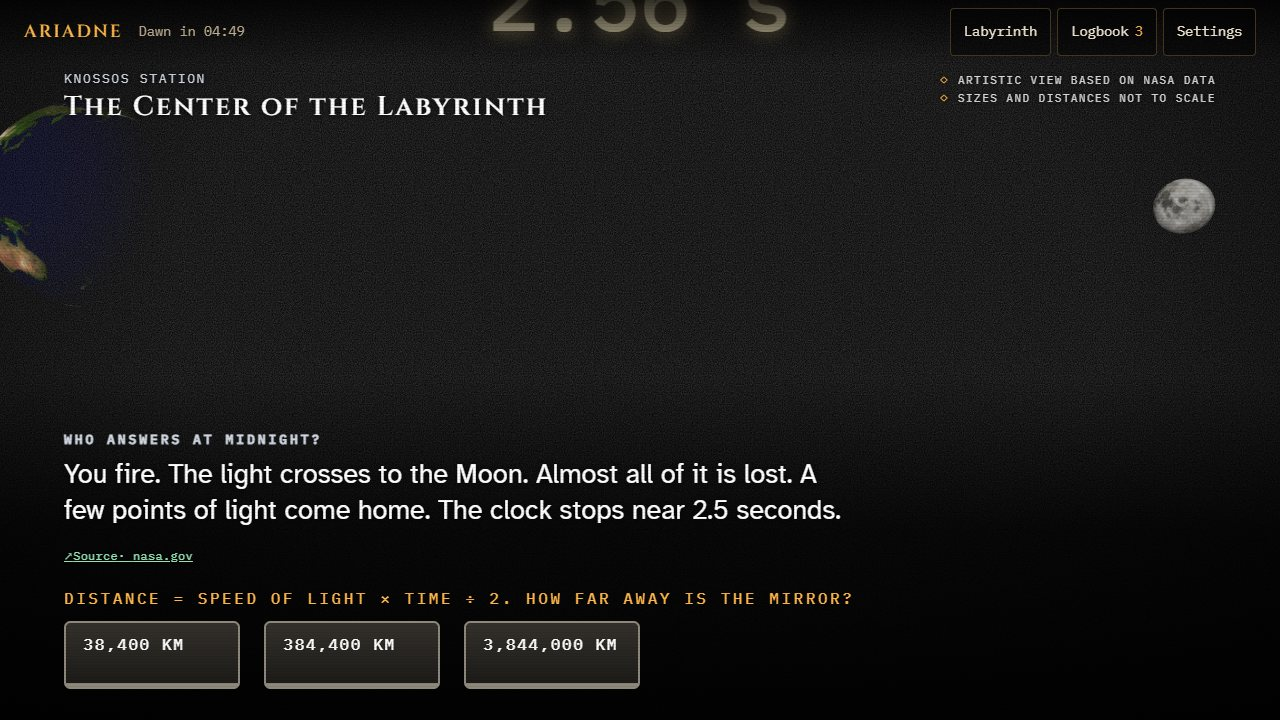
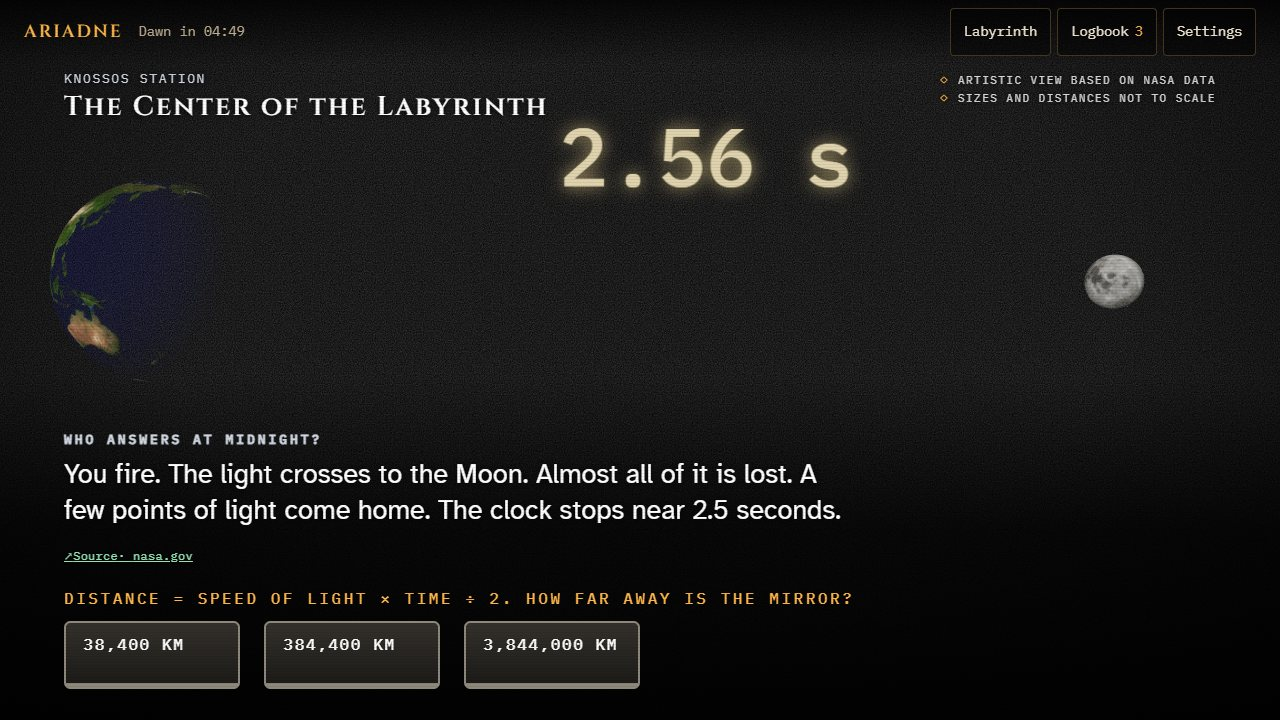
Voices: script and casting ready, blocked on quota; the browser reads aloud meanwhile
- scripts/gen-voices.ts + content/voices.yaml: stock adult voices, cache by
  text hash, ID3 tag "AI-generated voice (ElevenLabs)" written without
  ffmpeg, real people never voiced. Dry run: 54 lines, 4,763 characters
- BLOCKED: the ElevenLabs key has 50 credits left of 10,000 (task T-04b)
- Read aloud (AX-33, B-30): a line without a voice file is read by the
  browser's own speech, on the device, with pitch and pace per speaker.
  The compiler lists the voice files that exist, so nothing missing is
  ever requested (B-D13)
- The pulse and the Daisy Bell hum now come in under the narrator's words

diff --git a/scripts/gen-voices.ts b/scripts/gen-voices.ts
@@ -1,0 +1,116 @@
+/**
+ * Voice files (B-04, 10.5, 15.4, R-08). Development time only: nothing here ships to the browser.
+ *
+ *   npx tsx scripts/gen-voices.ts --dry-run prologue e02-apollo11 finale   # what would be made, and how many characters
+ *   npx tsx scripts/gen-voices.ts prologue e02-apollo11 finale             # make them
+ *   npx tsx scripts/gen-voices.ts --limit 1 e02-apollo11                   # a one-line test
+ *
+ * It reads the compiled content, takes every text that has a voice id (src/content/voice.ts), maps the speaker
+ * to a stock voice (content/voices.yaml), and writes public/assets/vo/vo_<id>_en.mp3.
+ *
+ *  - The key comes from .env (ELEVENLABS_API_KEY) and is never printed. A key that can only do text to speech is enough.
+ *  - A line is redone only when its text or its voice changed (assets-src/vo-cache.json).
+ *  - Speakers that are not in voices.yaml are skipped: real people are never voiced (B-D05).
+ *  - Every file gets an ID3 tag that says it is an AI-generated voice. No ffmpeg needed.
+ *  - If the quota runs out, it stops and keeps what it has; the game shows captions for the rest (FR-34).
+ */
+import { createHash } from 'node:crypto';
+import { existsSync, mkdirSync, readFileSync, writeFileSync } from 'node:fs';
+import { dirname, join } from 'node:path';
+import { fileURLToPath } from 'node:url';
+import { parse } from 'yaml';
+import { voiceLines } from '../src/content/voice.ts';
+import { buildContent } from './build-content.ts';
+
+const ROOT = join(dirname(fileURLToPath(import.meta.url)), '..');
+const OUT = join(ROOT, 'public', 'assets', 'vo');
+const CACHE = join(ROOT, 'assets-src', 'vo-cache.json');
+const LABEL = 'AI-generated voice (ElevenLabs)';
+
+type Voices = { model: string; format: string; settings: Record<string, number>; voices: Record<string, { name: string; id: string }> };
+
+const args = process.argv.slice(2);
+const dry = args.includes('--dry-run');
+const limitAt = args.indexOf('--limit');
+const limit = limitAt >= 0 ? Number(args[limitAt + 1]) : Infinity;
+const only = args.filter((a, i) => !a.startsWith('--') && i !== limitAt + 1);
+
+function key(): string {
+  const file = join(ROOT, '.env');
+  const found = existsSync(file) ? /^ELEVENLABS_API_KEY\s*=\s*["']?([^"'\s#]+)/m.exec(readFileSync(file, 'utf8'))?.[1] : undefined;
+  if (!found) throw new Error('ELEVENLABS_API_KEY is missing. Copy .env.example to .env and ask the team for the key.');
+  return found;
+}
+
+/** A minimal ID3v2.3 tag: title, artist and a comment that declares the voice as AI-generated (R-08). */
+function id3(title: string, voice: string): Buffer {
+  const frame = (id: string, body: Buffer) => {
+    const head = Buffer.alloc(10);
+    head.write(id, 0, 'latin1');
+    head.writeUInt32BE(body.length, 4);
+    return Buffer.concat([head, body]);
+  };
+  const text = (s: string) => Buffer.concat([Buffer.from([0]), Buffer.from(s, 'latin1')]);
+  const comment = Buffer.concat([Buffer.from([0]), Buffer.from('eng', 'latin1'), Buffer.from([0]), Buffer.from(LABEL, 'latin1')]);
+  const frames = Buffer.concat([frame('TIT2', text(title)), frame('TPE1', text(`${LABEL}, stock voice "${voice}"`)), frame('COMM', comment)]);
+  const head = Buffer.alloc(10);
+  head.write('ID3', 0, 'latin1');
+  head[3] = 3;
+  // Size as a 28-bit "synchsafe" integer.
+  for (let i = 0; i < 4; i++) head[6 + i] = (frames.length >> (7 * (3 - i))) & 0x7f;
+  return Buffer.concat([head, frames]);
+}
+
+async function main() {
+  const cfg = parse(readFileSync(join(ROOT, 'content', 'voices.yaml'), 'utf8')) as Voices;
+  const content = buildContent({ quiet: true });
+  const cache: Record<string, string> = existsSync(CACHE) ? JSON.parse(readFileSync(CACHE, 'utf8')) : {};
+  mkdirSync(OUT, { recursive: true });
+
+  const all = voiceLines(content, only.length ? only : undefined);
+  const skipped = new Set(all.filter((l) => !cfg.voices[l.who]).map((l) => l.who));
+  const lines = all.filter((l) => cfg.voices[l.who]);
+  const hash = (l: (typeof lines)[number]) => createHash('sha1').update(`${cfg.model}|${cfg.voices[l.who].id}|${JSON.stringify(cfg.settings)}|${l.text}`).digest('hex');
+  const todo = lines.filter((l) => cache[l.id] !== hash(l) || !existsSync(join(OUT, `vo_${l.id}_en.mp3`))).slice(0, limit);
+
+  const chars = todo.reduce((n, l) => n + l.text.length, 0);
+  console.log(`${lines.length} spoken lines in ${only.join(', ') || 'the whole game'}; ${lines.length - todo.length} already made; ${todo.length} to make, ${chars} characters.`);
+  if (skipped.size) console.log(`not voiced (no entry in voices.yaml, on purpose for real people): ${[...skipped].join(', ')}`);
+  const byVoice: Record<string, number> = {};
+  for (const l of todo) byVoice[l.who] = (byVoice[l.who] ?? 0) + l.text.length;
+  for (const [who, n] of Object.entries(byVoice)) console.log(`  ${who.padEnd(9)} ${cfg.voices[who].name.padEnd(8)} ${n} characters`);
+  if (dry) {
+    for (const l of todo) console.log(`  ${l.id}  [${l.who}]  ${l.text.slice(0, 70)}${l.text.length > 70 ? '…' : ''}`);
+    return;
+  }
+  if (!todo.length) return;
+
+  const apiKey = key();
+  let made = 0;
+  for (const l of todo) {
+    const v = cfg.voices[l.who];
+    const res = await fetch(`https://api.elevenlabs.io/v1/text-to-speech/${v.id}?output_format=${cfg.format}`, {
+      method: 'POST',
+      headers: { 'xi-api-key': apiKey, 'content-type': 'application/json', accept: 'audio/mpeg' },
+      body: JSON.stringify({ text: l.text, model_id: cfg.model, voice_settings: cfg.settings }),
+    });
+    if (!res.ok) {
+      const why = (await res.text()).slice(0, 300);
+      console.error(`\nstopped at ${l.id}: HTTP ${res.status} ${why}`);
+      break;
+    }
+    const audio = Buffer.from(await res.arrayBuffer());
+    writeFileSync(join(OUT, `vo_${l.id}_en.mp3`), Buffer.concat([id3(l.id, v.name), audio]));
+    cache[l.id] = hash(l);
+    writeFileSync(CACHE, `${JSON.stringify(cache, null, 1)}\n`);
+    made++;
+    console.log(`  ✓ ${l.id} (${v.name}, ${(audio.length / 1024).toFixed(0)} kB)`);
+  }
+  console.log(`\n${made} of ${todo.length} files written to public/assets/vo/.`);
+  if (made < todo.length) process.exit(1);
+}
+
+main().catch((e) => {
+  console.error(e instanceof Error ? e.message : e);
+  process.exit(1);
+});

diff --git a/src/audio/bus.ts b/src/audio/bus.ts
@@ -9,7 +9,9 @@
  * On the lunar surface there is silence. Sound only exists where there was air or a radio:
  * inside the cabin, on the loop with Mission Control, inside Knossos Station.
  */
+import { content } from '../content';
 import { asset } from '../content/assets';
+import { spoken } from '../content/voice';
 
 export type Channel = 'voice' | 'music' | 'sfx' | 'ambience';
 export type AudioSettings = { sound: boolean; narration: boolean; mono: boolean };
@@ -19,6 +21,15 @@ export const SFX = ['key', 'confirm', 'wrong', 'alarm', 'quindar', 'contact', 'c
 export type SfxName = (typeof SFX)[number];
 
 const VOLUME: Record<Channel, number> = { voice: 1, music: 0.45, sfx: 0.7, ambience: 0.5 };
+
+const VOICED = new Set(content.voiced ?? []);
+/** How the browser's own speech tells speakers apart when there is no voice file: pitch and pace. */
+const READ_ALOUD: Record<string, { pitch: number; rate: number }> = {
+  ariadne: { pitch: 1.05, rate: 0.95 },
+  machine: { pitch: 0.6, rate: 0.88 },
+  note: { pitch: 1.2, rate: 0.95 },
+  narrator: { pitch: 0.85, rate: 0.92 },
+};
 
 class AudioBus {
   private ctx: AudioContext | null = null;
@@ -263,19 +274,38 @@ class AudioBus {
   }
 
   /**
-   * Speaks a line by its id: public/assets/vo/vo_<id>_en.mp3. If the file is missing, or narration is off,
-   * nothing happens and nothing waits (FR-34).
+   * Speaks a text (FR-34, AX-33).
+   *  - If the line has a voice file (public/assets/vo/vo_<id>_en.mp3), that file plays.
+   *  - If not, the browser's own speech reads it aloud, on the device, with no download.
+   * Nothing waits for it and nothing breaks without it: the caption is already on screen.
+   * A real person's words are read in the neutral narrator voice; no voice ever pretends to be them.
    */
-  speak(id: string | undefined) {
+  speak(id: string | undefined, text?: string, who = 'narrator') {
     this.stopVoice();
-    if (!id || !this.unlocked || !this.settings.sound || !this.settings.narration) return;
-    const el = new Audio(asset(`assets/vo/vo_${id}_en.mp3`));
-    el.volume = VOLUME.voice;
-    el.addEventListener('error', () => {
-      if (this.voice === el) this.voice = null;
-    });
-    this.voice = el;
-    void el.play().catch(() => {});
+    if (!this.unlocked || !this.settings.sound || !this.settings.narration) return;
+    if (id && VOICED.has(id)) {
+      const el = new Audio(asset(`assets/vo/vo_${id}_en.mp3`));
+      el.volume = VOLUME.voice;
+      el.addEventListener('error', () => {
+        if (this.voice === el) this.voice = null;
+      });
+      this.voice = el;
+      void el.play().catch(() => {});
+      return;
+    }
+    if (!text || typeof speechSynthesis === 'undefined') return;
+    try {
+      const u = new SpeechSynthesisUtterance(spoken(text));
+      const how = READ_ALOUD[who] ?? READ_ALOUD.narrator;
+      u.lang = 'en-US';
+      u.pitch = how.pitch;
+      u.rate = how.rate;
+      const english = speechSynthesis.getVoices().find((v) => v.lang.startsWith('en') && v.localService) ?? speechSynthesis.getVoices().find((v) => v.lang.startsWith('en'));
+      if (english) u.voice = english;
+      speechSynthesis.speak(u);
+    } catch {
+      /* speech is a bonus, never a requirement */
+    }
   }
 
   stopVoice() {
@@ -283,6 +313,7 @@ class AudioBus {
       this.voice.pause();
       this.voice = null;
     }
+    if (typeof speechSynthesis !== 'undefined' && (speechSynthesis.speaking || speechSynthesis.pending)) speechSynthesis.cancel();
   }
 }
 

diff --git a/src/episode/CinemaEpisode.tsx b/src/episode/CinemaEpisode.tsx
@@ -51,8 +51,8 @@ export function CinemaEpisode({ ep }: { ep: EpisodeC }) {
 
   // Beats that do not drive the camera line by line show their own cue.
   useEffect(() => {
-    if (beat === 'clew' && ep.clew) audio.speak(voiceId.clew(ep.clew.id));
-    if (beat === 'status') audio.speak(voiceId.status(ep.id));
+    if (beat === 'clew' && ep.clew) audio.speak(voiceId.clew(ep.clew.id), ep.clew.line, 'ariadne');
+    if (beat === 'status' && ep.statusNow) audio.speak(voiceId.status(ep.id), ep.statusNow.text, 'ariadne');
     if (beat === 'passage' || beat === 'file') audio.stopVoice();
     if (beat === 'passage' || beat === 'discovery' || beat === 'clew' || beat === 'status' || beat === 'file') showCue(cueOf(beat));
     // eslint-disable-next-line react-hooks/exhaustive-deps
@@ -220,7 +220,9 @@ function Discovery({ ep, onNext }: { ep: EpisodeC; onNext: () => void }) {
 
   useEffect(() => {
     if (k >= 0 && k < parts.length) showCue(d.story?.cues?.[Math.min(k, (d.story.cues?.length ?? 1) - 1)]);
-    audio.speak(k === -1 ? voiceId.headline(ep.id) : k < parts.length ? voiceId.story(ep.id, k) : voiceId.myth(ep.id));
+    if (k === -1) audio.speak(voiceId.headline(ep.id), d.headline.text, 'ariadne');
+    else if (k < parts.length) audio.speak(voiceId.story(ep.id, k), parts[k], 'ariadne');
+    else if (d.myth) audio.speak(voiceId.myth(ep.id), `${t('ep.myth.claim')}: ${d.myth.claim} ${t('ep.myth.truth')}: ${d.myth.truth}`, 'ariadne');
     // eslint-disable-next-line react-hooks/exhaustive-deps
   }, [k]);
 
@@ -302,7 +304,8 @@ function Silence({ ep, cue, onCaught, onNext }: { ep: EpisodeC; cue: string; onC
 
   useEffect(() => {
     showCue((atLast ? s.last.cue : before[n].cue) ?? cue);
-    audio.speak(atLast ? s.last.id : before[n].id);
+    const line = atLast ? s.last : before[n];
+    audio.speak(line.id, line.text, line.who === 'machine' || line.who === 'ariadne' ? line.who : 'narrator');
     // eslint-disable-next-line react-hooks/exhaustive-deps
   }, [n, atLast]);
 

diff --git a/src/episode/ScenePlayer.tsx b/src/episode/ScenePlayer.tsx
@@ -111,7 +111,7 @@ function ClewBeat({ beat, onNext, onClew }: { beat: Extract<BeatT, { kind: 'clew
   const region = useFocusOn<HTMLDivElement>(beat.clew.id);
   useEffect(() => {
     showCue(beat.cue);
-    audio.speak(voiceId.clew(beat.clew.id));
+    audio.speak(voiceId.clew(beat.clew.id), beat.clew.line, 'ariadne');
   }, [beat]);
   return (
     <>
@@ -141,14 +141,15 @@ function SetPiece({ beat, id, onNext }: { beat: Extract<BeatT, { kind: 'special'
   const region = useFocusOn<HTMLDivElement>(id);
   useEffect(() => {
     showCue(beat.cue ?? (beat.name === 'pulse' ? 'pulse' : undefined));
-    let echo = 0;
+    // The words first; the pulse and the song come in under them.
+    audio.speak(id, beat.text, 'narrator');
+    const timers: number[] = [];
     if (beat.name === 'pulse') {
-      audio.play('pulse');
-      echo = window.setTimeout(() => audio.play('echo'), 2560);
-    } else if (beat.name === 'daisy-bell') audio.play('daisy');
-    else audio.speak(id);
+      timers.push(window.setTimeout(() => audio.play('pulse'), 800));
+      timers.push(window.setTimeout(() => audio.play('echo'), 800 + 2560));
+    } else if (beat.name === 'daisy-bell') timers.push(window.setTimeout(() => audio.play('daisy'), 4200));
     return () => {
-      clearTimeout(echo);
+      timers.forEach(clearTimeout);
       audio.stopMusic();
     };
   }, [beat, id]);

diff --git a/scripts/build-content.ts b/scripts/build-content.ts
@@ -36,6 +36,7 @@ const ROOT = join(dirname(fileURLToPath(import.meta.url)), '..');
 const CONTENT = join(ROOT, 'content');
 const OUT = join(ROOT, 'src', 'generated', 'content.json');
 const SCENES = join(ROOT, 'src', 'scenes');
+const VOICES = join(ROOT, 'public', 'assets', 'vo');
 
 /** What a 3D set declares: its cues (with their text description, AX-32) and its hotspots. */
 type SetSheet = { cues: Record<string, string>; hotspots: string[] };
@@ -261,6 +262,7 @@ export function buildContent(opts: { quiet?: boolean } = {}): Content {
     finale,
     ui,
     glossary,
+    voiced: existsSync(VOICES) ? readdirSync(VOICES).flatMap((f) => /^vo_(.+)_en\.mp3$/.exec(f)?.[1] ?? []).sort() : [],
     stats,
   };
 

diff --git a/src/episode/PuzzleRunner.tsx b/src/episode/PuzzleRunner.tsx
@@ -87,7 +87,7 @@ export function PuzzleRunner({ puzzle, facts, onSolved, scene = false, cue, cons
   // Narration, and a sound for what just happened. The first alarm state rings the master alarm once.
   useEffect(() => {
     if (!state) return;
-    if (voice && state.say) audio.speak(voiceId.say(voice, cur));
+    if (voice && state.say) audio.speak(voiceId.say(voice, cur), state.say, 'ariadne');
     if (state.wrong) audio.play('wrong');
     else if ((state.stage as { cue?: string } | undefined)?.cue === 'alarm' && cur === puzzle.initial) audio.play('alarm');
     // eslint-disable-next-line react-hooks/exhaustive-deps

diff --git a/src/episode/beats.tsx b/src/episode/beats.tsx
@@ -45,7 +45,8 @@ export function LinesBeat({
   // Each line can move the camera of the 3D set.
   useEffect(() => {
     showCue(lines[shown - 1]?.cue ?? cue);
-    audio.speak(lines[shown - 1]?.id);
+    const line = lines[shown - 1];
+    if (line) audio.speak(line.id, line.text, line.who === 'machine' || line.who === 'ariadne' || line.who === 'note' ? line.who : 'narrator');
   }, [lines, shown, cue]);
   // Focus enters the beat once. After that it stays on Continue, so one key press reveals each line;
   // new lines are announced through the live region.

diff --git a/src/content/schema.ts b/src/content/schema.ts
@@ -323,5 +323,7 @@ export type Content = {
   finale: SceneC;
   ui: Record<string, string>;
   glossary: Record<string, { def: string }>;
+  /** Ids of the lines that have a voice file in public/assets/vo/. The others are read by the browser's own speech. */
+  voiced: string[];
   stats: ContentStats;
 };

diff --git a/docs/TASKS.md b/docs/TASKS.md
@@ -71,7 +71,10 @@ A push in the last 45 minutes means it is. Mark your task `[~] (A)` or `[~] (B)`
   the scene has a `set` (today it is still the text layout). (5.4, AC-13)
 - [x] B-24 Finale staging: revelation facts as captions, the monologue, the "Daisy Bell" hum that slows down (synthesise
   it: public domain, 1892; never the 1961 recording), the final pulse, the closing line. (5.4, 15.3)
-- [ ] B-04 **Voices.** `content/voices.yaml` (speaker → ElevenLabs stock voice id) + `scripts/gen-voices.ts`: reads
+- [~] (B) B-04 **Voices. BLOCKED on quota (Sun 07:46): the ElevenLabs key has 50 credits left of 10,000.** The script
+  and the casting are done and tested up to the API call: `npx tsx scripts/gen-voices.ts --dry-run prologue e02-apollo11 finale`
+  lists 54 lines, 4,763 characters. With a key that has quota, drop `--dry-run`. Until then the browser reads aloud (B-D13).
+  Original task: `content/voices.yaml` (speaker → ElevenLabs stock voice id) + `scripts/gen-voices.ts`: reads
   `voiceLines(content, only)` from `src/content/voice.ts`, `--dry-run` prints the character count, cache by text hash,
   writes `public/assets/vo/vo_<id>_en.mp3`. Read the key from `.env`; never print it. Check the current ElevenLabs API
   docs first (`GET /v1/voices`, `GET /v1/user/subscription` for the quota). If ffmpeg exists, add the ID3 comment
@@ -108,7 +111,7 @@ A push in the last 45 minutes means it is. Mark your task `[~] (A)` or `[~] (B)`
 - [ ] B-02 Fact verification pass: every `note: VERIFY`, the 15 items of section 18.1, and **every source that points to
   `nasa.gov/history/alsj/`** (moved to `apollojournals.org/alsj/`). Never fill `verified:` (humans only). (CR-02, CR-12)
 - [ ] B-08 `scripts/check-links.ts`. (CR-02)
-- [ ] B-30 Read aloud with the browser's own speech for text without a voice file. (AX-33)
+- [x] B-30 Read aloud with the browser's own speech for text without a voice file. (AX-33)
 - [ ] B-31 Procedural leitmotif per act. (10.5)
 
 ## Lane A · Cosmos, station, shell
@@ -148,6 +151,9 @@ A-27 Gaze (no time; it stays in the pitch as the next step).
 - [ ] T-02 Rewrite and approve all text in your own voice. Text freeze Sunday 15:00. E02 is ready for you now. (R-09)
 - [ ] T-03 Verify every REAL fact against its source and sign `verified: <initials>` in the YAML. E02 has a `note:` on
   each fact saying what was checked and where. Anything unverified at 15:00 is reworded as IMAGINED or removed. (CR-12)
+- [ ] T-04b **ElevenLabs quota.** The key in `.env` has 50 credits left of 10,000. The Thread needs about 4,800 characters
+  (prologue, E02, finale) and about 3,000 more for E08 and E16. Put a key with quota in `.env` (a key that can only do
+  text to speech is enough), or decide to ship with the browser's own read-aloud voice, which already works.
 - [ ] T-04 Listen to the generated voices once B-04 lands. To change one, edit `content/voices.yaml`. Adult stock voices only. (R-05)
 - [ ] T-06 Timed playtest of the Thread with 3 adults (never minors). Record the median. (AC-01, M1)
 - [ ] T-07 **Submit the form at 14:00 Sunday** with the build of that moment; resubmit the final at 22:30. (R-01)

diff --git a/docs/DECISIONS.md b/docs/DECISIONS.md
@@ -128,6 +128,11 @@ Decisions taken while building the vertical slice (Sun 00:20 to 07:30).
   Why: captures, AC-16 measurements by the team, and tests that fly like a player. No secret is exposed.
 - **B-D11 · Eagle faces west, the Sun is 10.8° above the east, the Earth is 1.9° wide and high in the west, there are
   no stars on the surface.** Why: "accuracy is important throughout"; each of these is how it was on July 20, 1969.
+- **B-D13 · Voice has two layers.** A line with a file in `public/assets/vo/` plays that file. A line without one is read
+  aloud by the browser's own speech, on the device (AX-33), with pitch and pace per speaker. The compiler lists the files
+  that exist (`content.voiced`), so the game never requests a missing file. Why: the ElevenLabs key had 50 credits left
+  of 10,000 on Sun 07:46, and the Thread needs about 4,800 characters; the game must not be mute while the team finds quota.
+  A real person's words are read in the neutral narrator voice.
 - **B-D12 · Schedule re-based again on Sun 07:30, after 4 h 20 min lost to a usage limit** (table in `docs/TASKS.md`).
   The cut ladder is applied in advance: Knossos Station is a console set, not a walkable room, and the prologue is
   staged on the same telescope console as the finale. Order of work: finale, then E16, then E08, then the Orrery.
